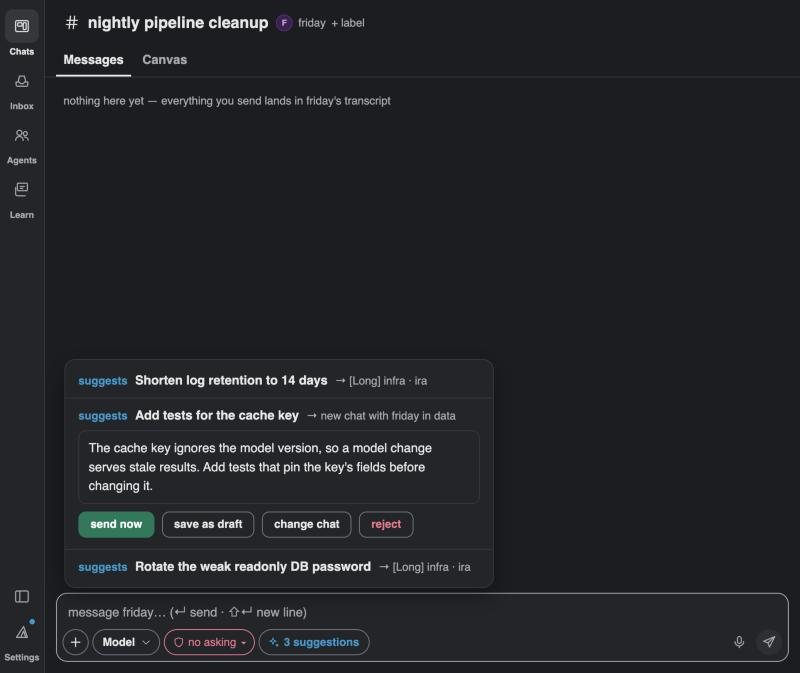
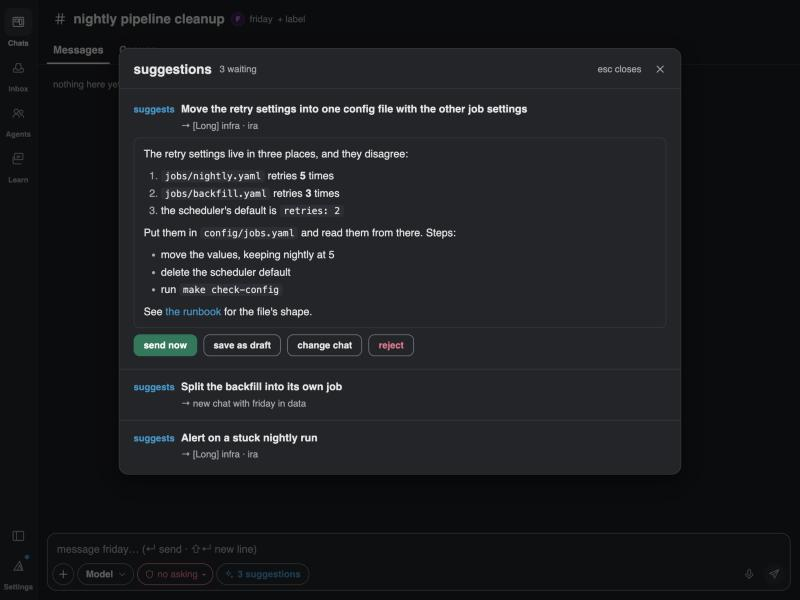
feat(chat): open suggestions in a bigger modal, their text as markdown
The chip's popover was 460 by 420 px and cut every row to one line, so on
the phone a title and its target showed a few words each. Suggestions now
open in a modal over the window on the desktop and a tall sheet on the
phone, with a header; each row is the title, wrapping, and the chat it is
for under it, the newest open at once. A suggestion's message renders as
markdown, as an agent's reply does. Plan 055.

Changed region(s): [[0.0, 0.0, 1.0, 1.0], [0.875, 0.09, 1.0, 0.12], [0.75, 0.09, 0.8125, 0.12]]

diff --git a/test/suggestion-card.test.ts b/test/suggestion-card.test.ts
@@ -133,11 +133,12 @@ describe("where suggestions show", () => {
       expect(chip).toBeLessThan(html.indexOf("loki-composer-end"));
       expect(html).toContain(`aria-label="2 suggestions"`);
     });
-    test(`${touch ? "phone" : "desktop"}: the host's tick opens them, newest first, in the box's ${touch ? "sheet" : "popover"}`, () => {
+    test(`${touch ? "phone" : "desktop"}: the host's tick opens them, newest first, in a ${touch ? "bottom sheet" : "modal"} with a header (plan 055)`, () => {
       const html = conversation(source(two).src, touch, true, 1);
       expect(cards(html)).toEqual(["newer", "older"]);
-      expect(html).toContain(touch ? "loki-suggestion-sheet" : "loki-suggestion-popover");
-      expect(html.indexOf("loki-suggestions")).toBeGreaterThan(html.indexOf("loki-composer"));
+      expect(html).toContain(touch ? "loki-suggestion-sheet" : "loki-suggestion-modal");
+      expect(html).toContain('aria-modal="true"');
+      expect(html).toContain(touch ? "2 waiting" : "esc closes");
     });
   }
   test("a hidden view (composer false) draws no chip: the view on screen draws it once", () => {
@@ -146,9 +147,18 @@ describe("where suggestions show", () => {
   test("a chat with none draws no chip", () => {
     expect(conversation(source([]).src, false, true, 1)).not.toContain("loki-suggestion-chip");
   });
-  test("one waiting suggestion opens straight to its message", () => {
-    const html = conversation(source([suggestion()]).src, false, true, 1);
+  test("the newest starts open, so the modal shows a message at once; the others stay one line", () => {
+    const html = conversation(source(two).src, false, true, 1);
     expect(actionsOf(html)).toEqual(["send", "draft", "change", "reject"]);
+    expect(html.indexOf('data-action="send"')).toBeLessThan(html.indexOf('data-suggestion="older"'));
+  });
+  test("the message renders as markdown; the title stays the words it is", () => {
+    const md = suggestion({ title: "Fix **the** test", text: "Two steps:\n\n- pin the `clock`\n- rerun it\n\nSee [the log](https://example.com/log)." });
+    const html = card({ suggestion: md });
+    expect(html).toContain("<ul>");
+    expect(html).toContain("<code>clock</code>");
+    expect(html).toContain('href="https://example.com/log"');
+    expect(html).toContain("Fix **the** test");
   });
 });
 

diff --git a/app/src/chat/suggestion-card.tsx b/app/src/chat/suggestion-card.tsx
@@ -201,7 +201,7 @@ export type SuggestionChipProps = SuggestionsProps & { touch?: boolean; tick?: n
 
 /**
  * A chat's suggestions behind a chip in the message box (plan 052): the chip shows only while some wait, and opens
- * the cards in a modal over the window on the desktop and a bottom sheet on the phone (plan 054). The
+ * the cards in a modal over the window on the desktop and a bottom sheet on the phone (plan 055). The
  * chip stays mounted with the chat, so a refused action's reason and a line told after its card has gone (AE6) keep
  * while the panel is closed; the chip stays for that line until it is dismissed. The last card decided closes it.
  */
@@ -311,7 +311,7 @@ export function SuggestionChip({ source, rt, blocked = null, touch = false, tick
 const stopEvent = (e: { stopPropagation: () => void }) => e.stopPropagation();
 
 /**
- * Where the chip's cards open (plan 054): a modal sheet centred over the window on the desktop, a bottom sheet on the
+ * Where the chip's cards open (plan 055): a modal sheet centred over the window on the desktop, a bottom sheet on the
  * phone. The Sheet owns the veil, Escape, the Tab loop and handing focus back to what opened it. A header names it.
  */
 function SuggestionPanel({ touch, count, onClose, children }: { touch: boolean; count: number; onClose: () => void; children: ReactNode }) {
@@ -400,7 +400,7 @@ export function SuggestionCardView({
       </button>
       {open && (
         <div className="loki-suggestion-body">
-          {/* The message as the transcript draws a reply (plan 054): lists, code and links read as they were written. */}
+          {/* The message as the transcript draws a reply (plan 055): lists, code and links read as they were written. */}
           <div className="loki-suggestion-text loki-md">
             <Markdown remarkPlugins={REMARK_PLUGINS} components={MARKDOWN_COMPONENTS}>
               {s.text}

diff --git a/app/src/chat/chat.css b/app/src/chat/chat.css
@@ -435,7 +435,11 @@
   background: var(--loki-brass-soft);
 }
 /* Suggestions an agent made in this chat for other chats (plan 049, suggestion-card.tsx): behind the box's chip
-   (plan 052), in a modal (plan 054) whose header stays while the list scrolls under it. */
+   (plan 052), in a modal (plan 055) whose header stays while the list scrolls under it. */
+/* Tall enough to read a message and its actions at once, even with one suggestion; it grows to the sheet's limit. */
+.loki-sheet-card.loki-suggestion-modal {
+  min-height: min(420px, 70vh);
+}
 .loki-suggestion-modal-head {
   display: flex;
   align-items: center;

diff --git a/app/src/phone/phone.css b/app/src/phone/phone.css
@@ -2361,7 +2361,7 @@ span.loki-phone-section-btn {
 .loki-phone-shell[data-keyboard] .loki-phone-notice {
   display: none;
 }
-/* The suggestions sheet (plans 052, 054) is the model sheet's ground: its header stays, its list scrolls under it. */
+/* The suggestions sheet (plans 052, 055) is the model sheet's ground: its header stays, its list scrolls under it. */
 .loki-sheet-card.loki-phone-sheet.loki-suggestion-sheet {
   gap: 0;
   padding-top: var(--phone-space-2);

diff --git a/docs/manual.md b/docs/manual.md
@@ -792,7 +792,7 @@ that card's chat. A suggestion stays until you act on it or its agent takes it b
 (`suggestion_withdraw`); nothing reminds you of it. A new suggestion in an archived chat brings the chat back into the
 Inbox, so it has a screen to show in.
 
-<img src="images/suggestion-chip.jpg" width="560" alt="A chat's message box with a 3 suggestions chip after the model and mode pills, its popover open above the box: three suggestions, one opened to its message with send now, save as draft, change chat and reject">
+<img src="images/suggestion-chip.jpg" width="560" alt="The suggestions modal over a chat: a header saying 3 waiting, the newest open with its markdown message (a numbered list, bullets, code and a link) and send now, save as draft, change chat and reject, two more below as a title and the chat each is for">
 
 **The four actions.**
 
